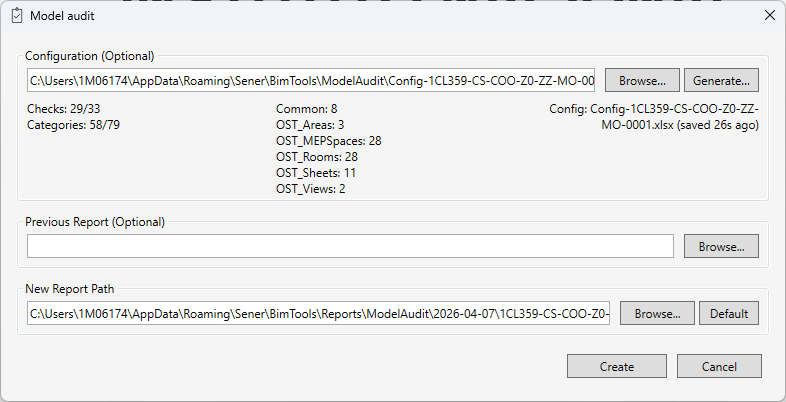
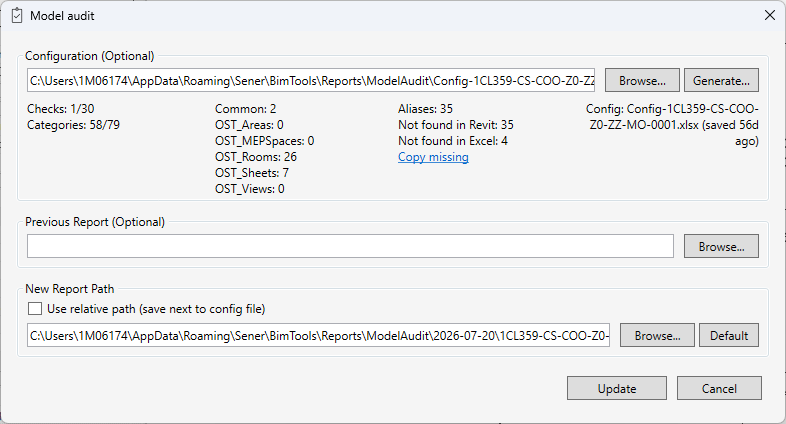
26.16

diff --git a/_i18n/es/docs/model-audit.md b/_i18n/es/docs/model-audit.md
@@ -30,10 +30,13 @@ Botones:
 - **Browse…** — seleccionar un archivo de configuración existente.
 - **Generate…** — crear un nuevo archivo de configuración con valores predeterminados. El diálogo sugiere la ruta `%APPDATA%\Sener\BimTools\ModelAudit\Config-{ModelName}.xlsx`. El archivo también incluye una hoja **Aliases** con nombres cortos autogenerados para los documentos vinculados — se pueden editar manualmente.
 
-Se muestra un **resumen de configuración** debajo del campo en tres columnas:
+Se muestra un **resumen de configuración** debajo del campo en cuatro columnas:
 - izquierda — número de verificaciones y categorías activas (pase el cursor para la lista completa)
-- centro — número de parámetros por categoría
+- siguiente — número de parámetros por categoría
+- siguiente — resumen de alias de documentos
 - derecha — nombre del archivo de configuración y hora de última modificación
+
+El resumen de alias muestra el número de alias, los documentos sin correspondencia en Revit y Excel, y el comando **Copy missing** para copiar nuevas filas a Excel.
 
 Si la configuración contiene errores, se muestra un mensaje de error en lugar del resumen.
 
@@ -286,6 +289,9 @@ Al generar, los nombres cortos se crean automáticamente eliminando el prefijo y
 ---
 
 ## Historial de cambios
+
+### [26.16] — 2026/09/14
+- Añadido un resumen de alias a la interfaz de ModelAudit, con los alias y los documentos sin correspondencia en Revit o Excel, además del comando **Copy missing** para preparar nuevas filas de configuración.
 
 ### [25.44] — 2026/07/17
 - Coordinates: Se ha corregido el cálculo del ángulo (Angle to True North) — se ha invertido la dirección (CCW → CW) para que los datos del informe coincidan con los valores de la interfaz de Revit.

diff --git a/_i18n/en/docs/model-audit.md b/_i18n/en/docs/model-audit.md
@@ -30,10 +30,13 @@ Buttons:
 - **Browse…** — select an existing configuration file.
 - **Generate…** — create a new configuration file with default values. The dialog suggests the path `%APPDATA%\Sener\BimTools\ModelAudit\Config-{ModelName}.xlsx`. An **Aliases** sheet with auto-generated short names for linked documents is also added — these can be edited manually.
 
-A **configuration summary** is shown below the field in three columns:
+A **configuration summary** is shown below the field in four columns:
 - left — number of active checks and categories (hover for full list)
-- center — number of parameters per category
+- next — number of parameters per category
+- next — document alias summary
 - right — configuration file name and last modified time
+
+The alias summary shows the number of aliases, documents without matches in Revit and Excel, and the **Copy missing** command for copying new rows to Excel.
 
 If the configuration contains errors, the summary is replaced with an error message.
 
@@ -286,6 +289,9 @@ Short names are generated automatically on creation: the common prefix and suffi
 ---
 
 ## Changelog
+
+### [26.16] — 2026/09/14
+- Added an alias summary to the ModelAudit interface, showing aliases, documents without matches in Revit or Excel, and the **Copy missing** command for preparing new configuration rows.
 
 ### [25.44] — 2026/07/17
 - Coordinates: Fixed angle calculation (Angle to True North) — inverted direction (CCW → CW) to align report data with Revit UI values.

diff --git a/_includes/changelog.md b/_includes/changelog.md
@@ -1,4 +1,7 @@
-## [26.15] — 2026-09-14
+## [26.16] — 2026-09-14
+*Model audit*: Added an alias summary to the configuration dialog, showing aliases and documents without matches in Revit or Excel, plus a **Copy missing** command for preparing new configuration rows.
+
+## [26.15] — 2026-09-14
 *View history*: Fixed a critical error when loading ribbon icons in Revit 2023.
 
 ## [26.14] — 2026-09-10
